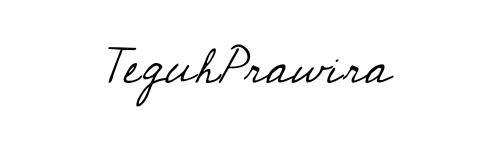
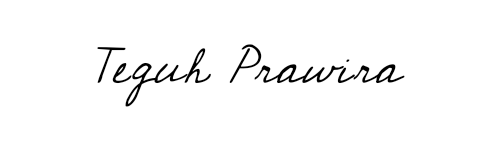
update

Changed region(s): [[0.18, 0.2933, 0.81, 0.72]]

diff --git a/index.html b/index.html
@@ -10,19 +10,19 @@
     <link rel="stylesheet" href="style.css">
 </head>
 <body>
-    <section class="home" id="home"></section>
-    <div id="navContainer" class="nav-container">
-        <div class="logo-scrolled">
-            <img alt="Logo" src="SMK-TI-BALI-GLOBAL-SINGARAJA-993.png" width="30" height="30"/>
-            <span class="play-bold">SMK TI GLOBAL</span>
+    <section class="home" id="home">
+        <div id="navContainer" class="nav-container">
+            <div class="logo-scrolled">
+                <img alt="Logo" src="SMK-TI-BALI-GLOBAL-SINGARAJA-993.png" width="30" height="30"/>
+                <span class="play-bold">SMK TI GLOBAL</span>
+            </div>
+            <div class="nav-scrolled">
+                <a href="#" class="play-regular">Beranda</a>
+                <a href="#about" class="play-regular">Tentang Saya</a>
+                <a href="#education" class="play-regular">Riwayat Pendidikan</a>
+                <a href="#project" class="play-regular">Projek</a>
+            </div>
         </div>
-        <div class="nav-scrolled">
-            <a href="#" class="play-regular">Home</a>
-            <a href="#about" class="play-regular">About</a>
-            <a href="#education" class="play-regular">Riwayat Pendidikan</a>
-            <a href="#project" class="play-regular">Project</a>
-        </div>
-    </div>
         <div class="landDisplay">
             <div class="left-section">
                 <div class="left-content">
@@ -32,11 +32,9 @@
                     </div> -->
                     <h1 class="name"><span class="play-bold">Teguh<br>Prawira</span></h1>
                     <p class="title"><span class="poppins-light">Pelajar Sekolah Menengah Kejuruan yang<br>sedang mendalami bidang RPL</span></p>
-                    <button class="button">
-                        <span class="play-bold">
-                            <a href="#about">Personal Info</a>
-                        </span>
-                    </button>
+                    <div class="button">
+                        <a href="#about" class="btn-info"><span class="play-bold">Info Pribadi</span></a>
+                    </div>
                 </div>
             </div>
             <div class="right-section" style="background-color: black;">
@@ -60,10 +58,10 @@
             <div class="content">
                 <img id="about-me-photo" src="teguhBajuAdat.jpeg"/>
                 <div class="text">
-                    <h2><span class="play-bold">About Me</span></h2>
+                    <h2><span class="play-bold">Tentang Saya</span></h2>
                     <h1><span class="play-bold">Saya sedang mendalami RPL</span></h1>
-                    <p><span class="play-regular">Lingkungan yang sehat, pondasi bagi masa depan yang kuat</span></p>
-                    <p><span class="play-regular">Karena lingkungan sangat mempengaruhi pertummbuhan dan perkembangan kita, karena teman, senior, dan guru, adalah pendorong dan pembagi pengalaman</span></p>
+                    <p><span class="play-regular">Lingkungan yang sehat, pondasi bagi masa depan yang kuat.</span></p>
+                    <p><span class="play-regular">Karena lingkungan sangat mempengaruhi pertummbuhan dan perkembangan kita, karena teman, senior, dan guru adalah pendorong dan pembagi pengalaman.</span></p>
                     
                     <div class="info">
                         <div>
@@ -94,8 +92,8 @@
     
     <section class="education" id="education">
         <div class="content-education">
-            <h2>School</h2>
-            <h1>My Education</h1>
+            <h2>Sekolah</h2>
+            <h1>Pendidikan</h1>
             <div class="education-item">
                 <div class="icon">
                     <img src="logoSD.png">
@@ -103,9 +101,10 @@
                 <div class="details">
                     <h3 class="play-bold">Pelajar Sekolah Dasar</h3>
                     <h4 class="play-bold">SD NEGERI 2 KUSAMBA <span>(2014-2018)</span> & SD Negeri 2 Ketewel <span>(2018-2020)</span></h4>
-                    <p class="play-regular">
-                        Beberapa kali mendapat juara kelas, pernah menjadi perserta di berbagai jenis lomba dan olimpiade, seperti lomba menggambar, lomba silat, dan olimpiade IPA
-                    </p>
+                    <ul>
+                        <li><p class="play-regular">Beberapa kali mendapat juara kelas.</p></li>
+                        <li><p class="play-regular">Menjadi perserta di berbagai jenis lomba dan olimpiade, seperti lomba menggambar, lomba silat, dan olimpiade IPA.</p></li>
+                    </ul>
                 </div>
             </div>
             <div class="education-item">
@@ -115,11 +114,11 @@
                 <div class="details">
                     <h3 class="play-bold">Pelajar Sekolah Menengah Pertama</h3>
                     <h4 class="play-bold">SMP NEGERI 1 DAWAN <span>(2020 - 2023)</span></h4>
-                    <p class="play-regular">
-                        Saya beberapa kali menjadi juara kelas
-                        <br>Mengikuti berbagai macam Lomba dan Tournament. 
-                        <br>Beberapa kali menjuarai perlombaan E-Sport tingkat pelajar se-Bali sebagai tim Inti. juga beberapa kali menjadi peserta Lomba Mapel Bahasa Inggris. Menjuarai beberapa lomba E-Sport umum saat masih SMP
-                    </p>
+                    <ul>
+                        <li><p class="play-regular">Saya beberapa kali menjadi juara kelas.</p></li>
+                        <li><p class="play-regular">Mengikuti berbagai macam Lomba dan Tournament. </p></li>
+                        <li><p class="play-regular">Beberapa kali menjuarai perlombaan E-Sport tingkat pelajar se-Bali sebagai tim Inti. juga beberapa kali menjadi peserta lomba Mapel Bahasa Inggris. Menjuarai beberapa lomba E-Sport umum saat masih SMP.</p></li>
+                    </ul>
                 </div>
             </div>
             <div class="education-item">
@@ -129,10 +128,11 @@
                 <div class="details">
                     <h3 class="play-bold">Pelajar Siswa RPL</h3>
                     <h4 class="play-bold">SMK TI BALI GLOBAL DENPASAR <span>(2023 - 2024)</span></h4>
-                    <p class="play-regular">Beberapa kali menjadi tim inti yang menjuarai Tournament E-Sport tingkat SMA/K se-Bali di Universitas ternama seperti UNBI dan UNDIKNAS. 
-                        <br>Saat kelas 10 juga mendapat Juara 1 Kelas
-                        <br>Saya Memiliki pengetahuan di bidang C++, ActionScript 3.0, dan pengembangan Website menggunakan MySQL, HTML, CSS, JavaScript, dan PHP
-                    </p>
+                    <ul>
+                        <li><p class="play-regular">Beberapa kali menjadi tim inti yang menjuarai Tournament E-Sport tingkat SMA/K se-Bali di Universitas ternama seperti UNBI dan UNDIKNAS.</p></li>
+                        <li><p class="play-regular">Saat kelas 10 juga mendapat Juara 1 Kelas.</p></li>
+                        <li><p class="play-regular">Saya memiliki pengetahuan di bidang <em>C++</em>, <em>ActionScript 3.0</em>, dan pengembangan Website menggunakan <em>MySQL</em>, <em>HTML</em>, <em>CSS</em>, <em>JavaScript</em>, dan <em>PHP</em>.</p></li>
+                    </ul> 
                 </div>
             </div>
         </div>
@@ -144,24 +144,25 @@
     <section class="project" id="project">
         <div class="headerProject">
             <h2 class="play-bold">Portofolio</h2>
-            <h1 class="play-bold">Project Experience</h1>
+            <h1 class="play-bold">Pengalaman Projek</h1>
         </div>
         <div class="icon-skills">
             <img src="cpp.png" alt="HTML" class="tech-icon" />
             <img src="adobe-flash-player.png" alt="CSS" class="tech-icon" />
-            <img src="animate.png" alt="JavaScript" class="tech-icon" />
+            <img src="animate.png" alt="JavaScript" class="tech-icon"/>
+            <img src="canva-blue-square-logo-22813.png" alt="Canva" class="tech-icon">
             <img src="html.png" alt="C++" class="tech-icon" />
             <img src="css-3.png" alt="ActionScript 2.0" class="tech-icon" />
             <img src="js.png" alt="ActionScript 3.0" class="tech-icon" />
         </div>
         <div class="project-container">
-            <div class="project-card" data-tags="Report Card">
+            <div class="project-card" data-tags="Raport Card">
                 <div class="image-container">
                     <img src="cppSS.png" height="400"/>
                 </div>
                 <div class="project-content">
                     <div class="meta">
-                        <span class="play-bold"> Raport</span>
+                        <span class="play-bold">Raport</span>
                     </div>
                     <h3 class="play-bold">Membuat project input output nilai raport sederhana menggunakan C++</h3>
                     <p>
@@ -235,6 +236,9 @@
                         <img src="css-3.png" alt="CSS" class="tech-icon-project" />
                         <img src="js.png" alt="javaScript" class="tech-icon-project" />
                     </div>
+                    <div class="visit-web">
+                        <a target="_blank" href="https://iteguh08.github.io/carProject/" class="visit-link"><span class="play-regular">Kunjungi Web</span></a>
+                    </div>
                 </div>
             </div>
             <div class="project-card" data-tags="Movie Web">
@@ -259,6 +263,9 @@
                         <img src="css-3.png" alt="CSS" class="tech-icon-project" />
                         <img src="js.png" alt="JavaScript" class="tech-icon-project" />
                     </div>
+                    <div class="visit-web">
+                        <a target="_blank" href="https://iteguh08.github.io/movieWeb/" class="visit-link"><span class="play-regular">Kunjungi Web</span></a>
+                    </div>
                 </div>
             </div>
             <div class="project-card" data-tags="Form">
@@ -279,6 +286,9 @@
                         <img src="html.png" alt="HTML" class="tech-icon-project" />
                         <img src="css-3.png" alt="CSS" class="tech-icon-project" />
                     </div>
+                    <div class="visit-web">
+                        <a target="_blank" href="https://iteguh08.github.io/Form/" class="visit-link"><span class="play-regular">Kunjungi Web</span></a>
+                    </div>
                 </div>
             </div>
             <div class="project-card" data-tags="Calculator">
@@ -289,7 +299,7 @@
                     <div class="meta">
                         <span class="play-bold">Calculator</span>
                     </div>
-                    <h3 class="play-bold">Membuat Calculator sederhana</h3>
+                    <h3 class="play-bold">Membuat Calculator sederhana dengan HTML CSS JS</h3>
                     <p>Proyek ini bertujuan untuk membuat kalkulator sederhana menggunakan HTML, CSS, dan JavaScript. Di kelas 11, kami belajar tentang operasi aritmatika dasar dan cara mengimplementasikannya dalam sebuah aplikasi web. Dengan menggunakan kombinasi ketiga teknologi ini, saya berhasil menciptakan antarmuka pengguna yang intuitif dan interaktif.
 
                         Kalkulator ini memungkinkan pengguna untuk memasukkan dua angka dan memilih operasi aritmatika yang diinginkan, yaitu penjumlahan, pengurangan, perkalian, dan pembagian. Hasil dari operasi tersebut ditampilkan secara langsung di bawah input, memberikan hasil instan kepada pengguna. Antarmuka dirancang agar menarik dan mudah digunakan, dengan latar belakang gradasi yang cerah dan tombol yang responsif.
@@ -300,6 +310,9 @@
                         <img src="html.png" alt="HTML" class="tech-icon-project" />
                         <img src="css-3.png" alt="CSS" class="tech-icon-project" />
                         <img src="js.png" alt="JavaScript" class="tech-icon-project" />
+                    </div>
+                    <div class="visit-web">
+                        <a target="_blank" href="https://iteguh08.github.io/calculator/" class="visit-link"><span class="play-regular">Kunjungi Web</span></a>
                     </div>
                 </div>
             </div>
@@ -347,6 +360,9 @@
                         <img src="css-3.png" alt="CSS" class="tech-icon-project" />
                         <img src="js.png" alt="JS" class="tech-icon-project" />
                     </div>
+                    <div class="visit-web">
+                        <a target="_blank" href="https://iteguh08.github.io/heroMobileLegends/" class="visit-link"><span class="play-regular">Kunjungi Web</span></a>
+                    </div>
                 </div>
             </div>
             <div class="project-card-smaller" data-tags="Game Fruit">
@@ -369,7 +385,7 @@
                         Dengan fitur-fitur ini, game kuis buah ini tidak hanya menghibur tetapi juga menjadi alat pembelajaran yang efektif, memberikan pengalaman belajar yang menyenangkan dan menarik bagi anak-anak. Proyek ini merupakan langkah besar dalam pengembangan kemampuan saya dalam menggunakan ActionScript 3.0 dan menciptakan aplikasi yang interaktif serta mendidik.
                     </p>
                     <div class="icon-container-project">
-                        <img src="animate.png" alt="AdobeAnimate" class="tech-icon-project" />
+                        <img src="animate.png" alt="AdobeAnimate" class="tech-icon-project"/>
                     </div>
                 </div>
             </div>

diff --git a/style.css b/style.css
@@ -95,25 +95,28 @@ body::-webkit-scrollbar {
     color: #666;
     line-height: 1.4;
 }
-button {
+
+.button {
+    display: flex;
+    justify-content: center;
+    align-items: center;
     background-color: #005594;
-    color: white;
-    /* padding: 17px 50px; */
-    border: none;
     border-radius: 5px;
     font-size: 1.2rem;
-    cursor: pointer;
     margin-top: 25px;
-    outline: none;
     height: 60px;
     width: 220px;
+    cursor: pointer; /* Menunjukkan bahwa ini adalah elemen yang dapat diklik */
 }
-.button a {
-    text-decoration: underline; /* Menambahkan garis bawah */
-    text-decoration-color: #005594; /* Ubah warna underline */
-    text-decoration-thickness: 2px; /* Ubah ketebalan underline */
-    text-decoration-style: solid; /* Gaya underline, bisa solid, dotted, dashed, dll */
+
+.btn-info {
+    display: flex; /* Menggunakan flexbox untuk menyeimbangkan konten */
+    justify-content: center;
+    align-items: center;
+    text-decoration: none; /* Menghapus garis bawah */
     color: white; /* Warna teks */
+    width: 100%; /* Membuat lebar 100% agar memenuhi tombol */
+    height: 100%; /* Membuat tinggi 100% agar memenuhi tombol */
 }
 
 .logo-scrolled {
@@ -200,7 +203,7 @@ button {
 }
 
 .nav-scrolled {
-    margin-right: 110px;
+    margin-right: 60px;
     display: flex;
     justify-content: center; /* Memusatkan link secara horizontal */
 }
@@ -430,12 +433,14 @@ button {
     margin: 10px 0 0;
 }
 .image {
-    width: 47550pxpx;
+    align-items: center;
+    margin-left: 70px;
+    width: 560px;
     height: 700px;
 }
 .image img {
     border-radius: 8px;
-    width: 550px;
+    width: 560px;
     height: 700px;
 }
 #education-photo {
@@ -444,7 +449,7 @@ button {
     transition: transform 1.5s ease, opacity 0.5s ease;
 }
   
- #education-photo.visible {
+#education-photo.visible {
     opacity: 1;
     transform: translateX(0);
 }
@@ -529,7 +534,6 @@ button {
 .project-content .meta span {  
     display: flex;
     align-items: center;
-    margin-right: 15px;
     font-size: 14px;
     color: #6c757d;
 }
@@ -639,7 +643,7 @@ button {
     cursor: pointer;
     font-size: 30px;
     position: absolute;
-    top: 10px; /* Jarak dari bagian atas popup-content */
+    top: 20px; /* Jarak dari bagian atas popup-content */
     right: 20px; /* Jarak dari bagian kanan popup-content */
     z-index: 10; /* Memastikan tombol close tetap di atas konten lain */
 }
@@ -714,6 +718,36 @@ button {
 
 .tech-icon-project:hover {
     transform: scale(1.1); /* Scale up the icon on hover */
+}
+
+.visit-web {
+    display: flex;
+    justify-content: center; /* Center the button */
+    margin-top: 20px; /* Space above the button */
+}
+
+.visit-link {
+    position: relative; /* Untuk posisi elemen */
+    text-decoration: none; /* Menghapus garis bawah default */
+    color: #0c5791; /* Warna teks */
+    font-size: 0.8rem; /* Ukuran font */
+    cursor: pointer; /* Menunjukkan elemen yang dapat diklik */
+}
+
+.visit-link::after {
+    content: ""; /* Membuat elemen kosong untuk efek underline */
+    position: absolute; /* Posisi absolut untuk mengatur lokasi */
+    width: 100%; /* Lebar 100% dari teks */
+    height: 2px; /* Tinggi garis underline */
+    background-color: #005594; /* Warna garis underline */
+    left: 0; /* Posisi dari kiri */
+    bottom: -5px; /* Posisi dari bawah teks */
+    transform: scaleX(0); /* Mulai dari 0 untuk animasi */
+    transition: transform 0.3s ease; /* Transisi halus untuk animasi */
+}
+
+.visit-link:hover::after {
+    transform: scaleX(1); /* Skala ke 1 saat hover */
 }
 
 .tags-icon-signature-container {

diff --git a/script.js b/script.js
@@ -9,6 +9,8 @@ function openPopup(imageSrc, title, description, iconSrcArray, tags, signatureTe
 
     // Menampilkan tags
     const popupTagsContainer = document.getElementById("popup-tags");
+    // Debugging: Cek isi tags
+    console.log(tags); // Tambahkan ini untuk melihat apa yang ada di tags
     popupTagsContainer.innerText = 'Tags: ' + (tags.length > 0 ? tags.join(', ') : 'No Tags');
 
     // Menampilkan ikon
@@ -23,7 +25,6 @@ function openPopup(imageSrc, title, description, iconSrcArray, tags, signatureTe
     });
 
     // Menampilkan tanda tangan
-    popupTagsContainer.innerText = 'Tags: '
     const popupSignature = document.getElementById("popup-signature");
     popupSignature.innerText = signatureText; // Menampilkan teks tanda tangan
 
